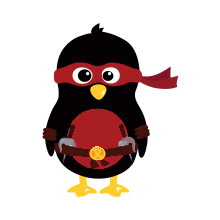
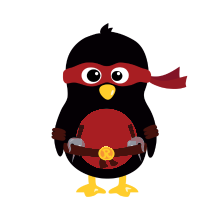
Option Coup Precedent (comme l'option aide / image a remanier sans doute), arrangement du pingouin 2 (trop a gauche)

Changed region(s): [[0.1909, 0.1091, 0.8455, 0.9]]

diff --git a/trunk/Interface/Graphique/AireDeJeu.java b/trunk/Interface/Graphique/AireDeJeu.java
@@ -35,7 +35,7 @@ public class AireDeJeu extends JComponent
 	boolean popup1 = true;
 	boolean menuOuvert = false;
 	boolean aide = false;
-
+   boolean optionCoupPrec = false;
     //definition des images
     BufferedImage imageJoueur1 = null;
     BufferedImage imageJoueur2 = null;
@@ -56,10 +56,13 @@ public class AireDeJeu extends JComponent
     BufferedImage posePoisson = null;
     BufferedImage bougePoisson = null;
 	BufferedImage entoure = null;
+   BufferedImage entoureJaune = null;
 	BufferedImage carreGlace = null;
 	BufferedImage placement = null;
 	BufferedImage info = null;
 	BufferedImage nonInfo = null;
+   BufferedImage optionCoupPrecActif= null;
+   BufferedImage optionCoupPrecNonActif = null;
 	BufferedImage suggest = null;
 	BufferedImage infoBulle = null;
 	BufferedImage poissonJ1 = null;
@@ -107,7 +110,7 @@ public class AireDeJeu extends JComponent
 	    tabCase.initHexagone();
 	    clicPrec = new Point(-1,-1);
 		coupPrec = new Coup(-1,-1,-1,-1);
-		aide = true;
+		//aide = true;
 		
 		//
 		//Chargement des Images
@@ -120,6 +123,7 @@ public class AireDeJeu extends JComponent
 			carreGlace = ImageIO.read(getImage("carreGlace.png"));
 			placement = ImageIO.read(getImage("placement.png"));
 			entoure = ImageIO.read(getImage("entoure.png"));
+			entoureJaune = ImageIO.read(getImage("entoureJaune.png"));
          un_poisson_aide = ImageIO.read(getImage("caseGlaceTestPose.png"));
 			deux_poissons_aide = ImageIO.read(getImage("caseGlaceTest2Aide.png"));
 			trois_poissons_aide = ImageIO.read(getImage("caseGlaceTest3Aide.png"));
@@ -152,6 +156,8 @@ public class AireDeJeu extends JComponent
 			fondEau = ImageIO.read(getImage("backgroundWater.png"));
 			info =  ImageIO.read(getImage("caseGlaceTestAide.png"));
          	nonInfo =  ImageIO.read(getImage("caseGlaceTestNonAide.png"));
+         optionCoupPrecActif = ImageIO.read(getImage("optionCoupPrecActif.png"));
+         optionCoupPrecNonActif = ImageIO.read(getImage("optionCoupPrecNonActif.png"));
 			suggest= ImageIO.read(getImage("caseGlaceTestSuggestion.png"));
 			infoBulle = ImageIO.read(getImage("caseGlaceTestNonAide.png"));
 			poissonJ1 = ImageIO.read(getImage("poisson1.png"));
@@ -452,6 +458,11 @@ public class AireDeJeu extends JComponent
 			drawable.drawImage(info, largeur/2-largeurMenu/2-largeurAide, 0, largeurAide, hauteurAide,null);
 		else
 			drawable.drawImage(nonInfo,largeur/2-largeurMenu/2-largeurAide, 0, largeurAide, hauteurAide,null);
+      //Bouton coup precedent
+      if(optionCoupPrec)
+         drawable.drawImage(optionCoupPrecActif,largeur/2-largeurMenu/2-largeurAide-largeurAide, 0, largeurAide, hauteurAide,null);
+      else
+         drawable.drawImage(optionCoupPrecNonActif,largeur/2-largeurMenu/2-largeurAide-largeurAide, 0, largeurAide, hauteurAide,null);
 		//bouton info bulle
 		drawable.drawImage(infoBulle, largeur/2+largeurMenu/2, 0, largeurAide, hauteurAide, null);
 		//bouton suggestion
@@ -588,19 +599,19 @@ public class AireDeJeu extends JComponent
 	   	}
        
         //affichage du joueur selectionné
-        if(clicPrec.x != -1 && clicPrec.y != -1)
+        if(clicPrec.x != -1 && clicPrec.y != -1 && ArbitreManager.instance.getJoueurCourant() instanceof JoueurHumain)
 		{ 
 			drawable.drawImage(entoure, tabCase.sommetG_x(clicPrec.y, clicPrec.x), tabCase.sommetG_y(clicPrec.y, clicPrec.x), tabCase.largeur(), tabCase.hauteur(), null);
 		}
        
        //tracage du coup précédent
 		coupPrec = ArbitreManager.instance.getConfiguration().getCoupEffectue();
-		if(coupPrec != null)
+		if(coupPrec != null && optionCoupPrec && ArbitreManager.instance.getJoueurCourant() instanceof JoueurHumain)
 		{
 			if(coupPrec.getYDepart() != -1 && coupPrec.getXDepart() != -1)
-				drawable.drawImage(entoure, tabCase.sommetG_x(coupPrec.getXDepart(), coupPrec.getYDepart()), tabCase.sommetG_y(coupPrec.getXDepart(), coupPrec.getYDepart()), tabCase.largeur(), tabCase.hauteur(), null);
+				drawable.drawImage(entoureJaune, tabCase.sommetG_x(coupPrec.getXDepart(), coupPrec.getYDepart()), tabCase.sommetG_y(coupPrec.getXDepart(), coupPrec.getYDepart()), tabCase.largeur(), tabCase.hauteur(), null);
 			if(coupPrec.getYArrivee() != -1 && coupPrec.getXArrivee() != -1)
-				drawable.drawImage(entoure, tabCase.sommetG_x(coupPrec.getXArrivee(), coupPrec.getYArrivee()), tabCase.sommetG_y(coupPrec.getXArrivee(), coupPrec.getYArrivee()), tabCase.largeur(), tabCase.hauteur(), null);
+				drawable.drawImage(entoureJaune, tabCase.sommetG_x(coupPrec.getXArrivee(), coupPrec.getYArrivee()), tabCase.sommetG_y(coupPrec.getXArrivee(), coupPrec.getYArrivee()), tabCase.largeur(), tabCase.hauteur(), null);
 		}	
        
        
@@ -746,6 +757,10 @@ public class AireDeJeu extends JComponent
 				if(x > (largeur/2-largeurMenu/2-largeurAide) && x < largeur/2-largeurMenu/2)
 				{ //clic sur aide
 					aide = !aide;
+				}
+            if(x > (largeur/2-largeurMenu/2-2*largeurAide-10) && x < largeur/2-largeurMenu/2-largeurAide)
+				{ //clic sur aide
+					optionCoupPrec = !optionCoupPrec;
 				}
 				if(x > (largeur/2+largeurMenu/2) && x < largeur/2+largeurMenu/2+largeurAide)
 				{ //clic sur infobulle
